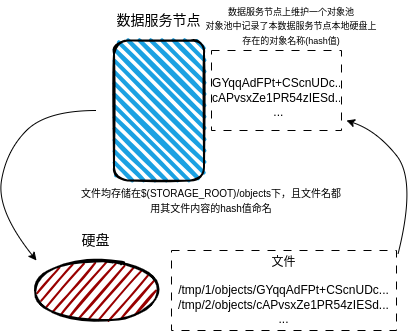
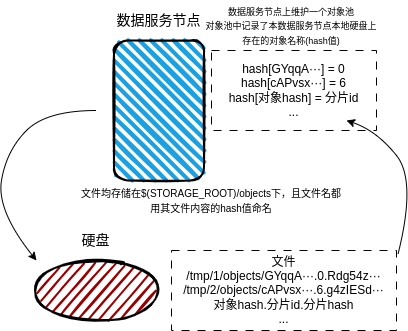
complete readme for data repair

Changed region(s): [[0.4412, 0.8157, 0.9412, 0.9366], [0.5, 0.1511, 0.8824, 0.3323]]

diff --git a/README.md b/README.md
@@ -58,19 +58,25 @@ LISTEN_ADDRESS=10.29.2.1:12345 go run ApiServer/ApiServer.go
 
 #### 从接口服务（`ApiServer/heartbeat`）的角度看：
 
-设置了一个`map[string]time.Time`类型的`dataServers`变量存储存活的数据服务节点。接收心跳信息刷新每个已注册数据服务节点信息的存活时间，移除超时的数据服务节点相关信息。
+&emsp;&emsp;设置了一个`map[string]time.Time`类型的`dataServers`变量存储存活的数据服务节点。
+接收心跳信息刷新每个已注册数据服务节点信息的存活时间，移除超时的数据服务节点相关信息。
 
 #### 从数据服务（`dataServer/heartbeat`）的角度看：
 
-每隔5秒向`RabbitMQ`的`apiServers exchange`发送一次心跳信息，即向所有接口服务节点注册自己的存在。
+&emsp;&emsp;每隔5秒向`RabbitMQ`的`apiServers exchange`发送一次心跳信息，即向所有接口服务节点注册自己的存在。
 
 ![1](./image/2.png)
 
 ## 4、数据服务节点启动
-除了心跳信息的发送，数据服务在启动时还执行两个操作
+&emsp;&emsp;除了心跳信息的发送，数据服务在启动时还执行两个操作
 ### 4.1、存储对象收集
-&emsp;&emsp;数据服务节点首先在本地磁盘上自检，将本地磁盘上存储的对象名称(hash值)收集到本地的内存中，
-在此我们创建了一个`map[string]int`的映射结构，并将其作为数据服务节点的对象池。
+
+&emsp;&emsp;由于该系统上实现了数据冗余，所以每一个数据服务节点上存储了其中一个分片，
+我们在每一个数据服务节点上都有一个对象池来存储对象名称(hash值)及其分片id的映射关系。
+
+&emsp;&emsp;因为我们会将hash所代表的完整对象分割为4+2份，因此该分片id表示当前数据服务节点上的文件是其中的第几份
+
+&emsp;&emsp;数据服务节点首先在本地磁盘上自检，将本地磁盘上对象hash值及其分片id的映射关系收集到本地的内存map中。
 
 ![c](./image/4-1.png)
 
@@ -86,7 +92,7 @@ q.Bind("dataServers")
 ```
 &emsp;&emsp;这样，数据服务节点就能接收到所有从接口服务节点传送来的对象`hash值`，
 并通过查询本地对象池中是否存在该对象`hash值`，
-从而返回自身的`ip地址`。
+从而返回自身的`ip地址`以及本地的`分片id`。
 
 ## 5、PUT操作：
 
@@ -103,13 +109,22 @@ curl -v 10.29.2.1:12345/objects/test4 -XPUT -d"this object will have only 1 inst
 2、从HTTP请求中提取出对象的`size`、`hash`信息
 
 3、根据对象的`hash`信息，我们对其进行**去重**判断。将`hash`信息经由`dataServer Exchange`转发到各个数据服务节点上，
-由各个数据服务节点查询本地对象池。若查询到则返回`200`状态码并结束后续操作
+由各个数据服务节点查询本地对象池。若查询到则返回`200`状态码，向elasticsearch数据库中添加新版本元数据并结束后续操作。
 
-4、若对象不存在于数据服务节点上，则接口服务节点从自身心跳信息服务的对象池中随机获取一个数据服务节点`ip`，
-并将对象传输到该`ip`的数据服务节点上作为临时文件保存。传输过程中还涉及两个步骤：
-* 首先使用`POST`方法在指定数据服务节点上创建临时存储文件，文件名为`uuid.dat`,uuid是使用`uuidgen`随机生成的。
-* 接着使用`PATCH`方法将文件内容传输到数据服务节点的`uuid.dat`内，在代码中主要是用`io.TeeReader`函数隐式调用了
-`TempPutStream`类的`Write`方法。
+4、传输对象的分片信息
+
+&emsp;&emsp;若对象不存在于数据服务节点上，则接口服务节点从自身心跳信息服务的对象池中随机获取 `4+2`个数据服务节点`ip`，
+这里的4+2指的是为了实现数据冗余，4个数据服务节点用来存储数据分片，2个数据服务节点用来存储校验分片
+
+&emsp;&emsp;每个分片的传输流程都相当类似，我们选择分片0作为例子讲解：
+我们遍历选取的六个数据服务节点`ip地址`，按照遍历顺序，我们向第一个ip发送分片0的POST请求，请求创建一个`hash.分片id`的对象。
+这个过程会在该数据服务节点上随机创建一个uuid，
+并且将该对象的uuid，name,size作为内容保存在临时存储区的一个名为`uuid`的临时文件中。
+然后再创建一个`uuid.dat`文件用于后面接收文件内容。
+
+5、传输对象分片内容
+
+&emsp;&emsp;接下来我们通过`PATCH`方法传输对象的内容，传输完成后将对象内容大小与对象信息文件中的`Size`进行对比，从而判断文件是否出错。
 
 ![c](./image/5.png)
 
@@ -137,11 +152,20 @@ curl -v 10.29.2.1:12345/objects/test3
 ```
 "http://$(ES_SERVER)/metadata/_search?q=Name:test3&size=1&sort=Version:desc"
 ```
-我们的主要目的是获取该对象对应版本的hash值
+&emsp;&emsp;我们的主要目的是获取该对象对应版本的hash值及其分片id
 
+&emsp;&emsp;下图中，我们主要模拟了有两个数据服务节点失效的情况，来演示数据服务节点的数据修复功能。
 
-![c](./image/6.png)
+&emsp;&emsp;其中，1、2、4、6号数据服务节点数据完好，接口服务节点会向他们开启读通道。
+2、5号节点数据损毁，接口服务节点回向他们开启写通道。
 
+![c](./image/6-1.png)
+
+&emsp;&emsp;接下来我们对2、5号节点上的数据进行修复。
+![c](./image/6-2.png)
+&emsp;&emsp;在上图中的第二步之后，我们就已经得到了修复后的对象数据，将该对象数据返回便是我们GET操作希望的结果。
+
+&emsp;&emsp;在GET操作结束时，我们将调用commit方法将我们修复后存放在硬盘临时区域中的文件转为正式区域的文件。
 
 ## 7、Delete操作
 删除操作主要是通过向ElasticSearch数据库输入特定值实现的。
@@ -158,12 +182,10 @@ curl -v 10.29.2.1:12345/objects/test3
 
 * 1、实现了接口服务与数据服务分离的架构，任意新主机只需要向`RabbitMQ`注册，
 即可获取数据服务的支持。或是作为数据服务节点，承载数据服务的能力。
-
 * 2、实现了元数据服务，完成了对于存储对象的版本控制。
-
 * 3、实现了数据去重功能，避免了相同数据多次传输导致数据服务节点快速存满的问题
-
 * 4、实现了数据校验功能，防止了不完整数据被存入数据节点
+* 5、实现了数据冗余功能，将数据分片存储在多个数据服务节点上，且通过RS纠删码技术允许通过部分分片恢复整体数据。
 
 ### 不足：
 
@@ -172,5 +194,3 @@ curl -v 10.29.2.1:12345/objects/test3
 一个有效的解决方法是将多个小对象组成一个大对象后上传，这样1s的时间也就微不足道了。
 
 2、删除操作不会真的删除磁盘上的文件，这也就导致我们可以恢复自己删除的文件，但是磁盘的空间并不会因为删除操作而得到释放。
-
-3、虽然去重技术节省了磁盘空间，但是这也就导致了数据一旦损失就真的丢失了，因此后续可以使用**数据冗余**的技术来解决这一问题
